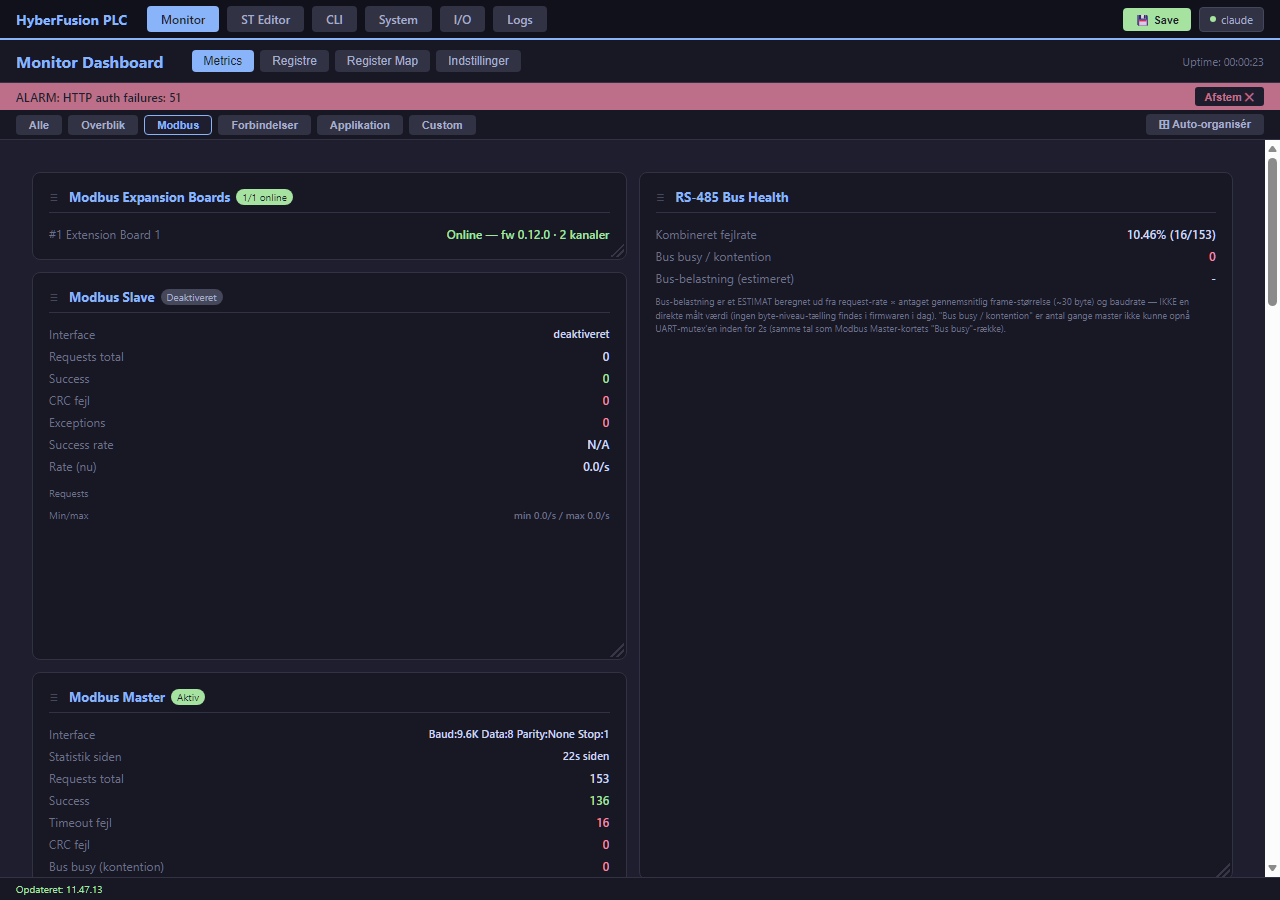
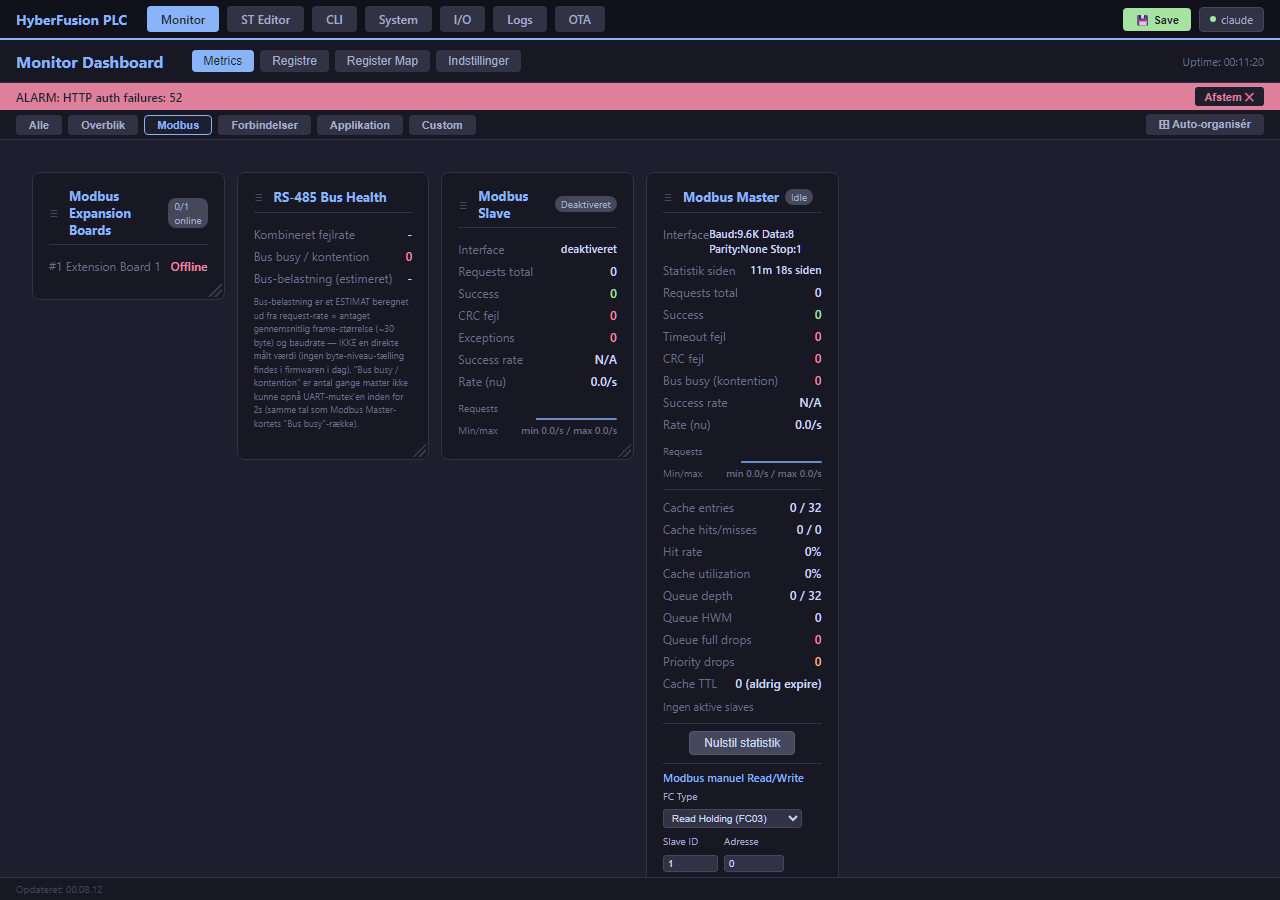
DOCS: opdater Monitor-skærmbilleder, tilføj Forbindelser-fanen
Live-taget mod den kørende enhed (10.1.1.153, fw v7.9.68.7) med
Playwright: opdaterede dashboard_modbus_tab.png (nu inkl. Modbus
Expansion Boards-kortet) og tilføjede en ny dashboard_forbindelser_tab.png
der viser det omdøbte "TCP/UDP Forbindelser"-kort med FEAT-417s nye
Modbus TCP-rækker (to aktive forbindelser til expansion boardet, live
bekræftet virkende).

Tilføjede en ny "Forbindelser-fanen"-sektion i
04_Web_Dashboard_og_Monitor.md (HTTP API/NTP/TCP-UDP Forbindelser),
som hidtil kun var nævnt i forbifarten i fane-oversigten.

diff --git a/docs/manual/04_Web_Dashboard_og_Monitor.md b/docs/manual/04_Web_Dashboard_og_Monitor.md
@@ -34,7 +34,7 @@ Dashboardet er organiseret i **kort** (cards), grupperet under faner:
 - **Alle** — alle kort samlet
 - **Overblik** — System, Netværk, Alarm Historik, Hændelseslog
 - **Modbus** — Modbus Slave, Modbus Master (+ manuel Read/Write), Modbus Aktivitetslog, RTU-trafik, RS-485 Bus Health (FEAT-096)
-- **Forbindelser** — HTTP API/SSE, TCP-forbindelsesmonitor, NTP
+- **Forbindelser** — HTTP API/SSE, TCP/UDP-forbindelsesmonitor (inkl. Modbus TCP til expansion boards), NTP
 - **Applikation** — Tællere, Timere, ST Logic, Digital I/O, Trend Recorder (FEAT-099)
 - **Custom (FEAT-167)** — et uafhængigt, brugervalgt kort-sæt, se nedenfor
 
@@ -65,6 +65,16 @@ Dashboardet er organiseret i **kort** (cards), grupperet under faner:
 **RS-485 Bus Health (FEAT-096)** — samlet bus-niveau-overblik der supplerer Slave-/Master-kortene: kombineret fejlrate på tværs af begge roller, "bus busy/kontention" (antal gange master ikke kunne opnå UART-mutex'en — en praktisk kollisions-proxy for enkelt-transceiver-arkitekturen, se [§6.1](06_Modbus_Interface.md)), og et **estimeret** bus-belastningstal (request-rate × en antaget gennemsnitlig frame-størrelse ÷ baudrate — IKKE en direkte målt værdi, tydeligt mærket som sådan i kortet, da firmwaren ikke i dag har byte-niveau UART-instrumentering).
 
 **Trend Recorder (FEAT-099)** — optag op til 8 vilkårlige registre (Holding/Input/Coil/Discrete Input, blandet frit) på et konfigurerbart interval (500ms-60s) til en RAM-only ringbuffer (720 samples), og eksportér som CSV til commissioning/dybere offline-analyse i f.eks. Excel. Adskiller sig fra Hændelseslogens registerændrings-sporing ved at sample **periodisk uanset om værdien har ændret sig** — et ægte tidsserie-værktøj, ikke en audit-log. Konfiguration og data er bevidst IKKE persisteret (nulstilles ved reboot) — en rekonfiguration (tilføj/fjern målepunkt, skift interval) stopper og rydder altid eksisterende data, så en "session" altid starter frisk.
+
+### Forbindelser-fanen
+
+**HTTP API** — samlet request-tæller (total/success/4xx/5xx/auth failures), SSE-serverstatus (aktiv/inaktiv, port, antal tilsluttede klienter ud af max, heartbeat-interval).
+
+**NTP Tid** — synkroniseringsstatus, lokal tid, konfigureret server/tidszone, antal syncs og tid siden seneste.
+
+**TCP/UDP Forbindelser (FEAT-075, udvidet v7.9.68.7)** — én række pr. aktiv forbindelse, uanset retning eller protokol: indgående SSE-klienter og HTTP-aggregatet, udgående NTP (UDP) og **Modbus TCP** — de vedvarende data-plan-forbindelser til Modbus Expansion Boards (én pr. (board, kanal) i aktiv brug, se [§6.7](06_Modbus_Interface.md#67-modbus-expansion-boards-feat-409)), med forbundet/afbrudt-status og tid siden seneste aktivitet. En række vises kun mens forbindelsen rent faktisk er i brug — fx forsvinder en Modbus TCP-række igen hvis ingen ST Logic-program har kaldt `MBX_*`-funktioner for nyligt.
+
+![Forbindelser-fanen — HTTP API, NTP og TCP/UDP Forbindelser (her med to aktive Modbus TCP-forbindelser til et expansion board)](assets/screenshots/dashboard_forbindelser_tab.png)
 
 Loggen rummer **500 transaktioner** (ringbuffer i PSRAM) og har tre knapper:
 
